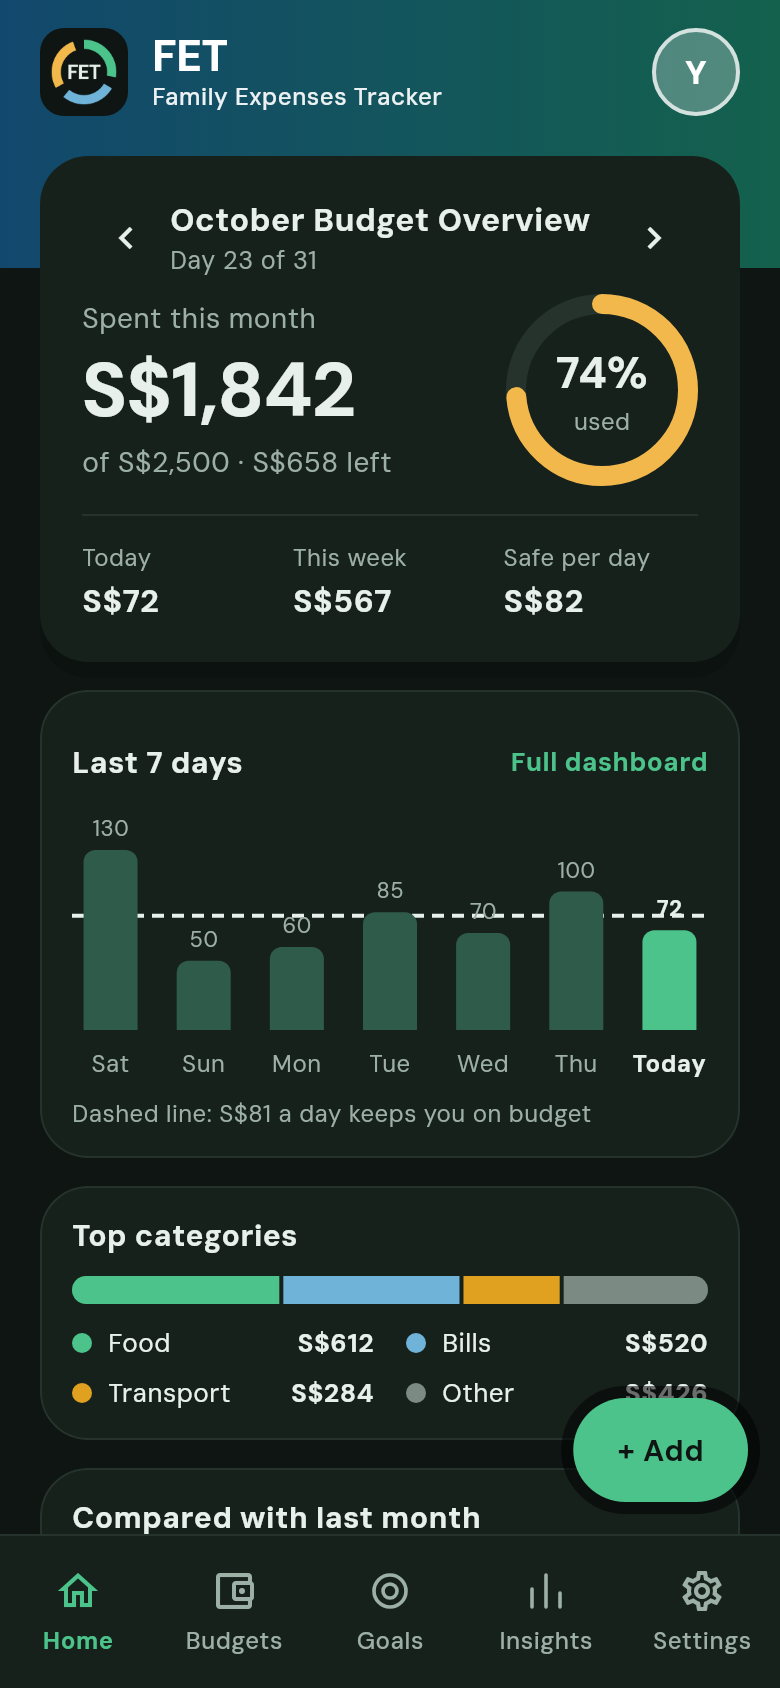
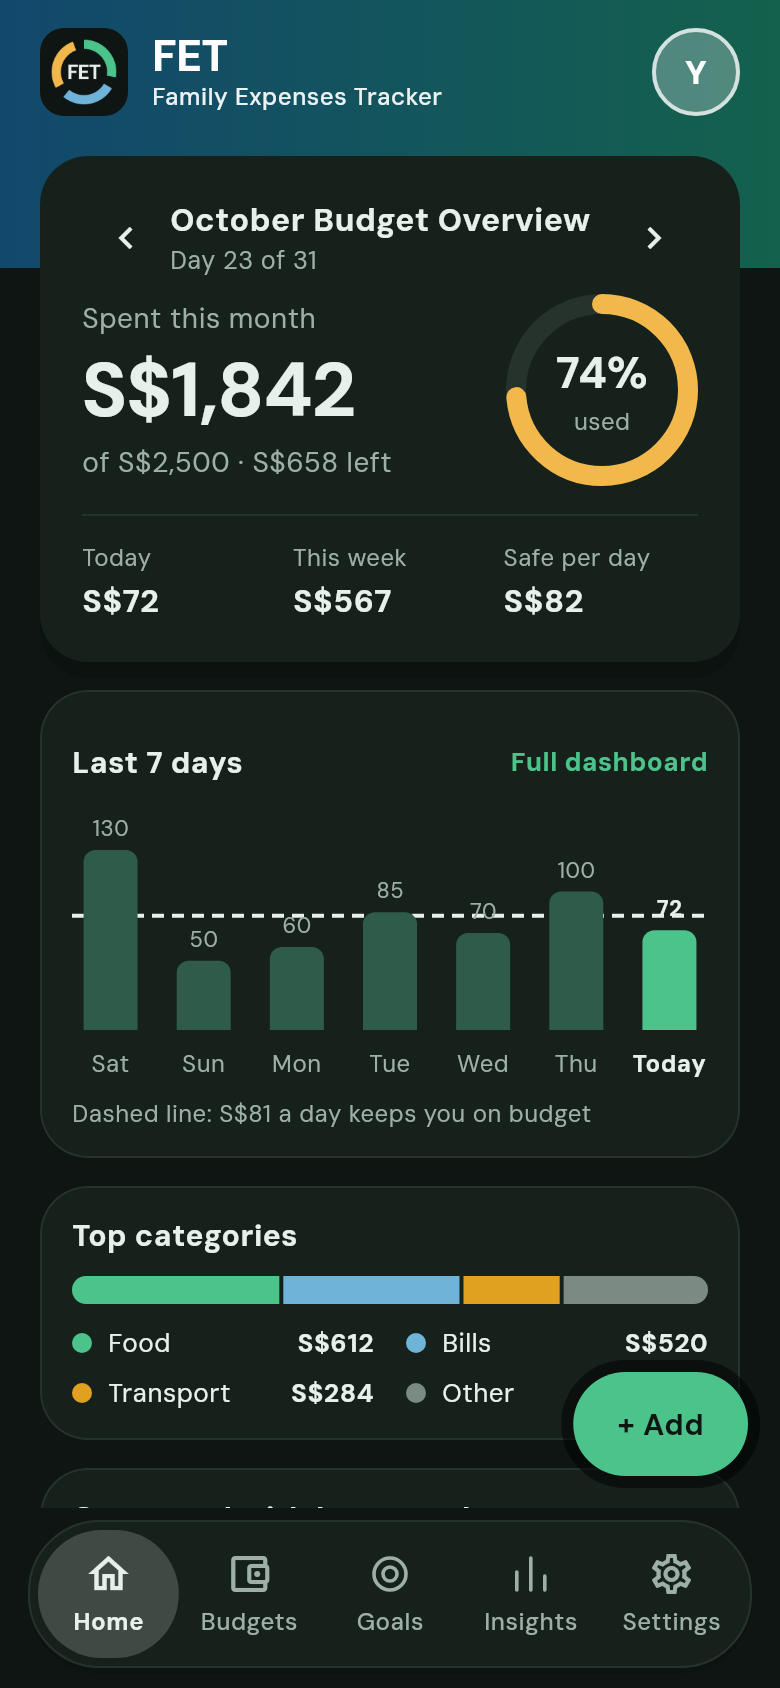
Faster Glass look (no live blur), pill bottom bar in the Standard look too
Claude-Session: https://claude.ai/code/session_017RLUmD1WxyVaECNigSd7p4

diff --git a/lib/core/layout/adaptive_shell.dart b/lib/core/layout/adaptive_shell.dart
@@ -167,15 +167,16 @@ class _BottomTabs extends StatelessWidget {
   @override
   Widget build(BuildContext context) {
     final t = context.tokens;
-    final bar = SafeArea(
-      top: false,
-      child: SizedBox(
-        height: 76,
+    final glass = GlassScope.of(context);
+    final row = SizedBox(
+      height: 74,
+      child: Padding(
+        padding: const EdgeInsets.all(5),
         child: Row(
           children: [
             for (final d in AppDestination.tabs)
               Expanded(
-                child: _TabItem(
+                child: _PillTab(
                   destination: d,
                   selected: d == destination,
                   onTap: () => onSelect(d),
@@ -185,45 +186,38 @@ class _BottomTabs extends StatelessWidget {
         ),
       ),
     );
-    // Glass: a floating, rounded glass pill over the backdrop, the chosen tab in a lighter pill.
-    if (GlassScope.of(context)) {
-      return SafeArea(
-        top: false,
-        child: Padding(
-          padding: const EdgeInsets.fromLTRB(14, 6, 14, 10),
-          child: GlassBox(
-            key: const ValueKey('glass-bar'),
-            color: t.navRail,
-            borderRadius: BorderRadius.circular(36),
-            strength: 1.2,
-            child: SizedBox(
-              height: 74,
-              child: Padding(
-                padding: const EdgeInsets.all(5),
-                child: Row(
-                  children: [
-                    for (final d in AppDestination.tabs)
-                      Expanded(
-                        child: _PillTab(
-                          destination: d,
-                          selected: d == destination,
-                          onTap: () => onSelect(d),
-                        ),
-                      ),
+    final radius = BorderRadius.circular(36);
+    // A floating, rounded pill with the chosen tab in a lighter pill. Glass is see-through over
+    // the backdrop; Standard is a solid surface with a thin edge and a soft shadow.
+    return SafeArea(
+      top: false,
+      child: Padding(
+        padding: const EdgeInsets.fromLTRB(14, 6, 14, 10),
+        child: glass
+            ? GlassBox(
+                key: const ValueKey('glass-bar'),
+                color: t.navRail,
+                borderRadius: radius,
+                strength: 1.2,
+                child: row,
+              )
+            : DecoratedBox(
+                key: const ValueKey('pill-bar'),
+                decoration: BoxDecoration(
+                  color: t.navRail,
+                  borderRadius: radius,
+                  border: Border.all(color: t.border),
+                  boxShadow: [
+                    BoxShadow(
+                      color: Colors.black.withValues(alpha: 0.10),
+                      blurRadius: 12,
+                      offset: const Offset(0, 3),
+                    ),
                   ],
                 ),
+                child: row,
               ),
-            ),
-          ),
-        ),
-      );
-    }
-    return Container(
-      decoration: BoxDecoration(
-        color: t.navRail,
-        border: Border(top: BorderSide(color: t.border)),
       ),
-      child: bar,
     );
   }
 }
@@ -284,55 +278,6 @@ class _PillTab extends StatelessWidget {
               ),
             ],
           ),
-        ),
-      ),
-    );
-  }
-}
-
-class _TabItem extends StatelessWidget {
-  const _TabItem({
-    required this.destination,
-    required this.selected,
-    required this.onTap,
-  });
-
-  final AppDestination destination;
-  final bool selected;
-  final VoidCallback onTap;
-
-  @override
-  Widget build(BuildContext context) {
-    final t = context.tokens;
-    final color = selected ? t.primary : t.muted;
-    return Semantics(
-      button: true,
-      selected: selected,
-      label: destination.label,
-      excludeSemantics: true,
-      child: InkWell(
-        onTap: onTap,
-        child: Column(
-          mainAxisAlignment: MainAxisAlignment.center,
-          children: [
-            NavIcon(destination, size: 24, color: color),
-            const SizedBox(height: 4),
-            // One line, shrunk a little rather than wrapped, so four tabs fit at large text.
-            Flexible(
-              child: FittedBox(
-                fit: BoxFit.scaleDown,
-                child: Text(
-                  destination.label,
-                  maxLines: 1,
-                  style: TextStyle(
-                    fontSize: 12,
-                    fontWeight: selected ? FontWeight.w700 : FontWeight.w500,
-                    color: color,
-                  ),
-                ),
-              ),
-            ),
-          ],
         ),
       ),
     );

diff --git a/lib/core/widgets/glass.dart b/lib/core/widgets/glass.dart
@@ -1,5 +1,3 @@
-import 'dart:ui' as ui;
-
 import 'package:flutter/material.dart';
 
 /// Whether cards and bars are drawn as frosted glass: translucent, blurring what is behind them,
@@ -18,16 +16,16 @@ class GlassScope extends InheritedWidget {
   bool updateShouldNotify(GlassScope old) => old.enabled != enabled;
 }
 
-/// The glass look around [child]: the blur, a tint of [color], a soft light sheen from the top
-/// left and a thin edge. [color] is the solid surface it replaces; the glass is a see-through
-/// version of it so text keeps its contrast.
+/// The glass look around [child]: a see-through tint of [color], a soft light sheen from the top
+/// left and a thin light edge. No live blur: the backdrop behind is already soft (or blurred once
+/// when it is a picture), and a blur filter per card is what made scrolling slow. [color] is the
+/// solid surface it replaces; the tint keeps enough of it for text to keep its contrast.
 class GlassBox extends StatelessWidget {
   const GlassBox({
     super.key,
     required this.child,
     required this.color,
     this.borderRadius = BorderRadius.zero,
-    this.blur = 22,
     this.onlyTopEdge = false,
     this.strength = 1,
   });
@@ -35,7 +33,6 @@ class GlassBox extends StatelessWidget {
   final Widget child;
   final Color color;
   final BorderRadius borderRadius;
-  final double blur;
 
   /// A bar along the bottom of the screen draws its edge on top only.
   final bool onlyTopEdge;
@@ -48,31 +45,25 @@ class GlassBox extends StatelessWidget {
   Widget build(BuildContext context) {
     final dark = Theme.of(context).brightness == Brightness.dark;
     final edge = Colors.white.withValues(alpha: dark ? 0.16 : 0.55);
-    return ClipRRect(
-      borderRadius: borderRadius,
-      child: BackdropFilter(
-        filter: ui.ImageFilter.blur(sigmaX: blur, sigmaY: blur),
-        child: DecoratedBox(
-          decoration: BoxDecoration(
-            borderRadius: borderRadius,
-            color: color.withValues(
-              alpha: ((dark ? 0.58 : 0.64) * strength).clamp(0.0, 0.88),
-            ),
-            gradient: LinearGradient(
-              begin: Alignment.topLeft,
-              end: Alignment.bottomRight,
-              colors: [
-                Colors.white.withValues(alpha: dark ? 0.10 : 0.30),
-                Colors.white.withValues(alpha: 0),
-              ],
-            ),
-            border: onlyTopEdge
-                ? Border(top: BorderSide(color: edge))
-                : Border.all(color: edge),
-          ),
-          child: child,
+    return DecoratedBox(
+      decoration: BoxDecoration(
+        borderRadius: borderRadius,
+        color: color.withValues(
+          alpha: ((dark ? 0.58 : 0.64) * strength).clamp(0.0, 0.88),
         ),
+        gradient: LinearGradient(
+          begin: Alignment.topLeft,
+          end: Alignment.bottomRight,
+          colors: [
+            Colors.white.withValues(alpha: dark ? 0.10 : 0.30),
+            Colors.white.withValues(alpha: 0),
+          ],
+        ),
+        border: onlyTopEdge
+            ? Border(top: BorderSide(color: edge))
+            : Border.all(color: edge),
       ),
+      child: ClipRRect(borderRadius: borderRadius, child: child),
     );
   }
 }

diff --git a/tests/features/header_and_presets_test.dart b/tests/features/header_and_presets_test.dart
@@ -8,6 +8,7 @@ import 'package:family_expenses/core/theme/glass_backdrop.dart';
 import 'package:family_expenses/core/theme/header_gradient.dart';
 import 'package:family_expenses/core/theme/personal_look.dart';
 import 'package:family_expenses/core/theme/preset_pictures.dart';
+import 'package:family_expenses/core/widgets/glass.dart';
 import 'package:family_expenses/features/backup/settings_backup.dart';
 import 'package:flutter/material.dart';
 import 'package:flutter_test/flutter_test.dart';
@@ -286,15 +287,20 @@ void glassTests() {
 
     testWidgets('Standard has no glass', (tester) async {
       await pumpApp(tester, size: const Size(390, 844));
-      expect(find.byType(BackdropFilter), findsNothing);
+      expect(find.byType(GlassBox), findsNothing);
       expect(key('glass-bar'), findsNothing);
+      expect(
+        key('pill-bar'),
+        findsOneWidget,
+        reason: 'Standard has the pill bar too, solid',
+      );
     });
 
     testWidgets(
       'Glass blurs the cards, floats the bottom bar and brings its own backdrop',
       (tester) async {
         await pumpApp(tester, size: const Size(390, 844), prefs: glass);
-        expect(find.byType(BackdropFilter), findsWidgets);
+        expect(find.byType(GlassBox), findsWidgets);
         expect(key('glass-bar'), findsOneWidget);
         expect(find.byType(GlassBackdrop), findsOneWidget);
         // The bar is a rounded pill inset from the edges, not a full-width strip.
@@ -323,7 +329,7 @@ void glassTests() {
         size: const Size(390, 844),
         prefs: {'personal.look': picture},
       );
-      expect(find.byType(BackdropFilter), findsNothing);
+      expect(find.byType(GlassBox), findsNothing);
     });
 
     testWidgets(

diff --git a/lib/core/theme/glass_backdrop.dart b/lib/core/theme/glass_backdrop.dart
@@ -36,19 +36,26 @@ class GlassBackdrop extends StatelessWidget {
         ),
       ),
     );
-    return ExcludeSemantics(
-      child: Stack(
-        fit: StackFit.expand,
-        children: [
-          ColoredBox(color: base),
-          patch(const Alignment(-0.8, -0.7), tone(a, light ? 0.55 : 0.55), 0.9),
-          patch(const Alignment(0.9, -0.2), tone(b, light ? 0.5 : 0.5), 0.8),
-          patch(
-            const Alignment(-0.3, 0.9),
-            tone(accent, light ? 0.45 : 0.30),
-            0.9,
-          ),
-        ],
+    // Painted once and kept as a picture: scrolling the page above never redraws it.
+    return RepaintBoundary(
+      child: ExcludeSemantics(
+        child: Stack(
+          fit: StackFit.expand,
+          children: [
+            ColoredBox(color: base),
+            patch(
+              const Alignment(-0.8, -0.7),
+              tone(a, light ? 0.55 : 0.55),
+              0.9,
+            ),
+            patch(const Alignment(0.9, -0.2), tone(b, light ? 0.5 : 0.5), 0.8),
+            patch(
+              const Alignment(-0.3, 0.9),
+              tone(accent, light ? 0.45 : 0.30),
+              0.9,
+            ),
+          ],
+        ),
       ),
     );
   }

diff --git a/lib/core/theme/personal_background.dart b/lib/core/theme/personal_background.dart
@@ -11,9 +11,13 @@ import 'preset_pictures.dart';
 /// Paints a [BackgroundStyle] to fill its parent: a colour, a gradient, or a picture with blur
 /// and dimming. Draws nothing for [BackgroundStyle.none].
 class PersonalBackground extends StatelessWidget {
-  const PersonalBackground({super.key, required this.style});
+  const PersonalBackground({super.key, required this.style, this.minBlur = 0});
 
   final BackgroundStyle style;
+
+  /// At least this much blur (the Glass look softens a picture once, here, instead of blurring
+  /// behind every card).
+  final int minBlur;
 
   @override
   Widget build(BuildContext context) {
@@ -35,7 +39,11 @@ class PersonalBackground extends StatelessWidget {
           ),
           child: const SizedBox.expand(),
         ),
-        BackgroundKind.picture => _Picture(style: style),
+        BackgroundKind.picture => RepaintBoundary(
+          child: _Picture(
+            style: minBlur > style.blur ? style.copyWith(blur: minBlur) : style,
+          ),
+        ),
         BackgroundKind.none => const SizedBox.shrink(),
       },
     );

diff --git a/lib/app.dart b/lib/app.dart
@@ -129,7 +129,10 @@ class _FamilyExpensesAppState extends ConsumerState<FamilyExpensesApp> {
             children: [
               Positioned.fill(
                 child: page.active
-                    ? PersonalBackground(style: page)
+                    ? PersonalBackground(
+                        style: page,
+                        minBlur: glassLook ? 10 : 0,
+                      )
                     : glassLook
                     ? GlassBackdrop(
                         theme: settings.colorTheme,

diff --git a/CHANGELOG.md b/CHANGELOG.md
@@ -2,6 +2,8 @@
 
 ## Fixes after Phase 8
 
+- Glass look is much lighter to draw: no live blur behind each card or the bar (that was the lag). Cards are a see-through tint with a light edge over a backdrop that is painted once and kept; a picture is softened once, not on every frame.
+- The bottom bar is a floating rounded pill in the Standard look too (solid, with a thin edge and a soft shadow); Glass keeps the see-through version.
 - Home gradient look rebuilt to match the proposal: the band runs the full width and under the status bar, the overview card ("October Budget Overview", "Day 23 of 31", with the month switch inside) reaches up into it, and + Add floats at the bottom right. Swiping the card still changes month.
 - Glass look (Appearance → Look, and on the welcome screen): Standard or Glass. Glass makes cards, the overview card and the side rail see-through and blurred over a soft backdrop in your colour theme (or your own picture), and the bottom bar a floating rounded glass pill with the chosen tab in a lighter pill. Saved with the backup.
 - The gradient Home header is now the default look, with the overview as a light card lifted over the band (Appearance → Home header → Classic brings back the old one). On your own the header shows just your picture, so the full app name has room.
